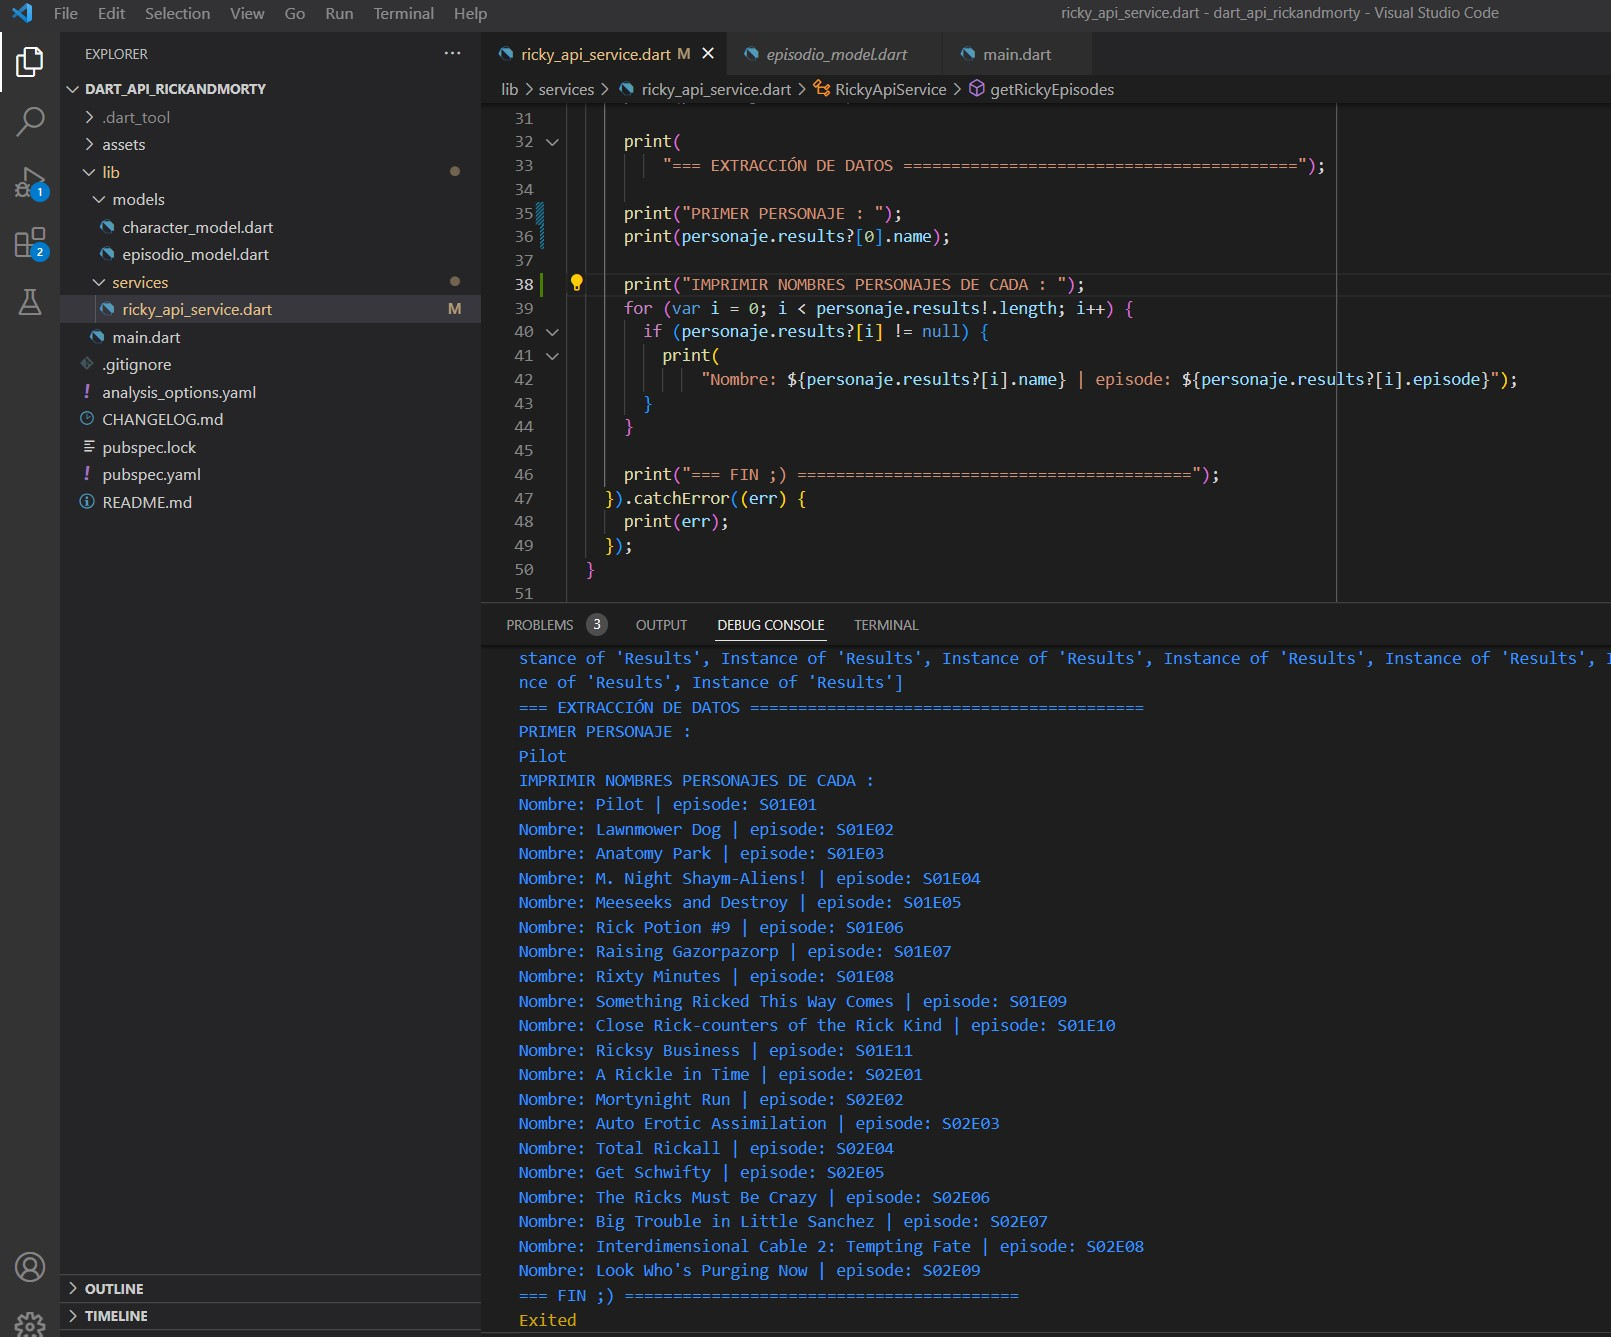
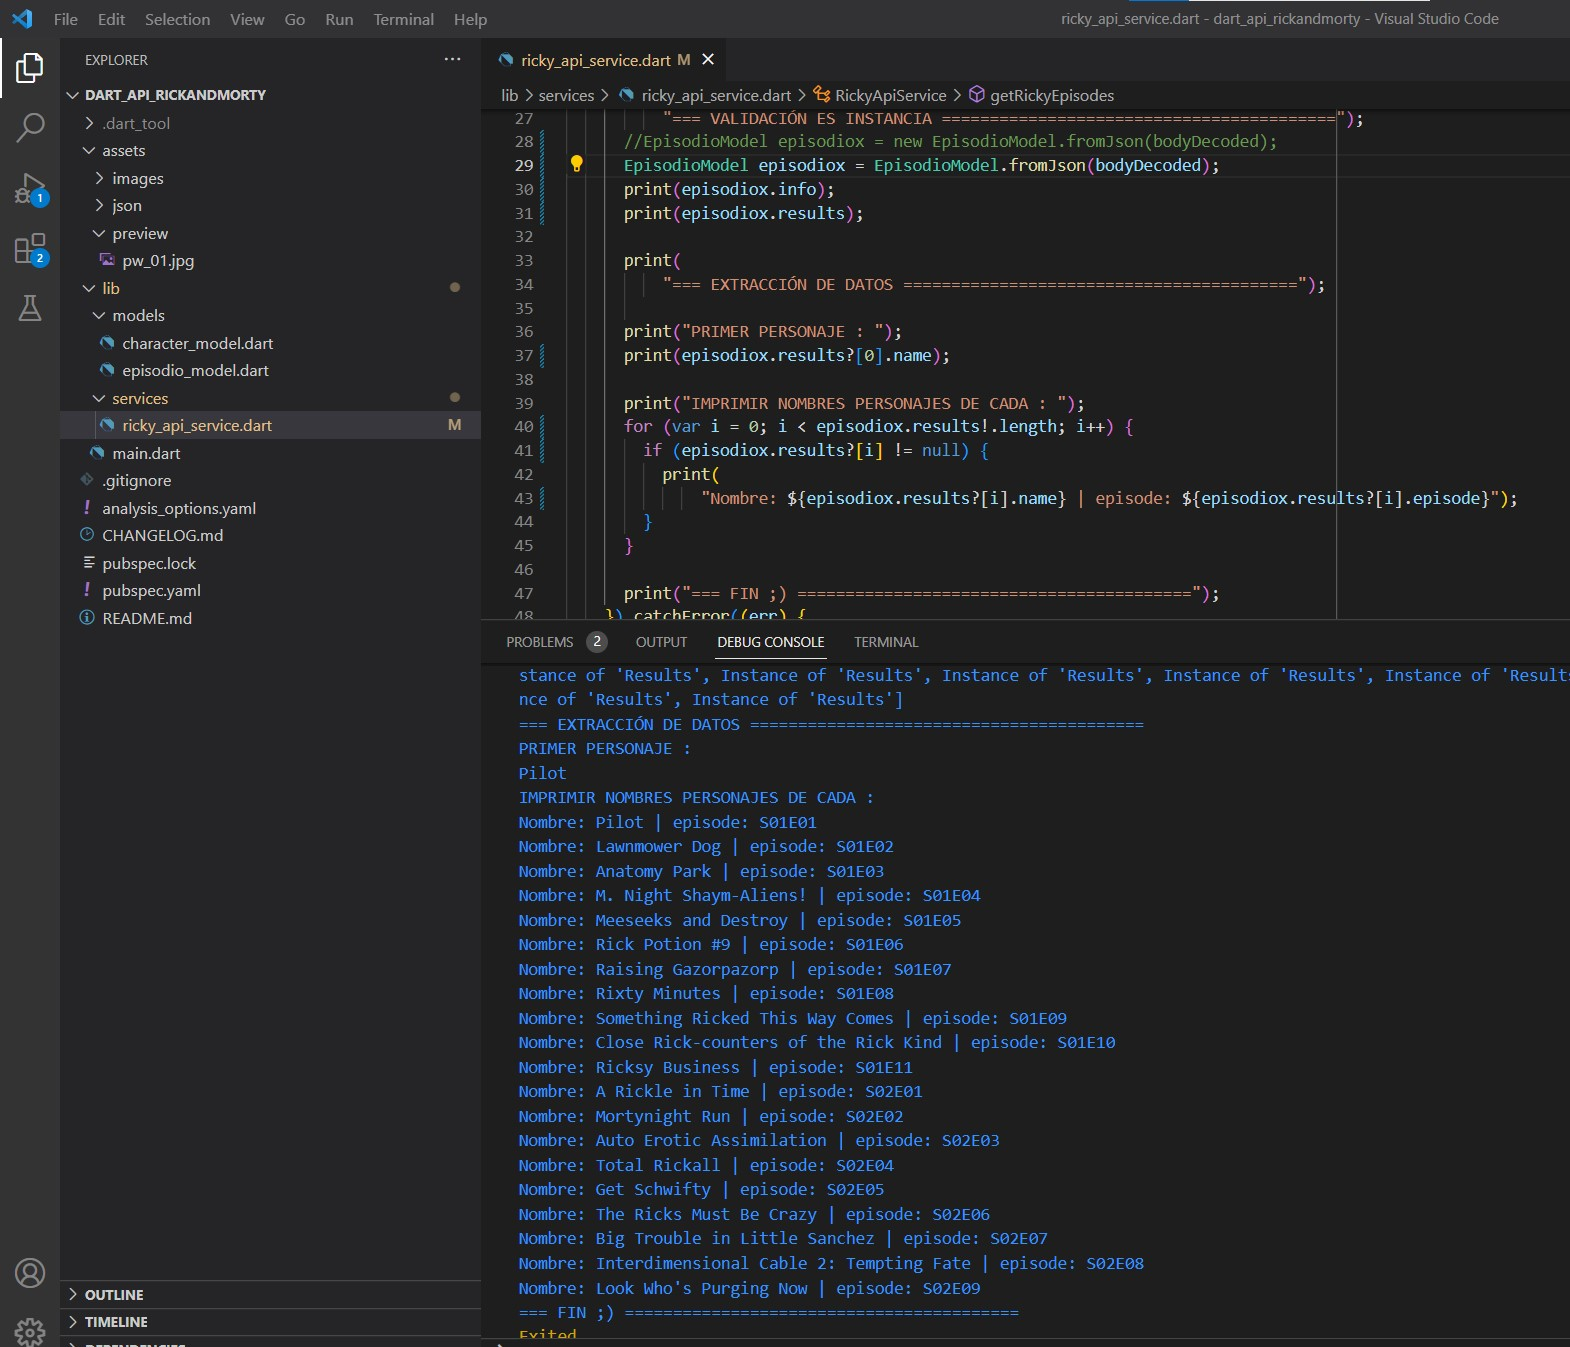
Mini mejora txt + img

diff --git a/lib/services/ricky_api_service.dart b/lib/services/ricky_api_service.dart
@@ -25,21 +25,22 @@ class RickyApiService {
 
       print(
           "=== VALIDACIÓN ES INSTANCIA =========================================");
-      EpisodioModel personaje = new EpisodioModel.fromJson(bodyDecoded);
-      print(personaje.info);
-      print(personaje.results);
+      //EpisodioModel episodiox = new EpisodioModel.fromJson(bodyDecoded);
+      EpisodioModel episodiox = EpisodioModel.fromJson(bodyDecoded);
+      print(episodiox.info);
+      print(episodiox.results);
 
       print(
           "=== EXTRACCIÓN DE DATOS =========================================");
 
       print("PRIMER PERSONAJE : ");
-      print(personaje.results?[0].name);
+      print(episodiox.results?[0].name);
 
       print("IMPRIMIR NOMBRES PERSONAJES DE CADA : ");
-      for (var i = 0; i < personaje.results!.length; i++) {
-        if (personaje.results?[i] != null) {
+      for (var i = 0; i < episodiox.results!.length; i++) {
+        if (episodiox.results?[i] != null) {
           print(
-              "Nombre: ${personaje.results?[i].name} | episode: ${personaje.results?[i].episode}");
+              "Nombre: ${episodiox.results?[i].name} | episode: ${episodiox.results?[i].episode}");
         }
       }
 

diff --git a/README.md b/README.md
@@ -1,6 +1,6 @@
 ## DESCRIPCIÓN
 
-Dart Simple API, para solo obtener resultados de los personajes y generar los modelos correspondientes a partir del enlace especificado + inicio API de https://rickandmortyapi.com/api/character
+Dart Simple API, para solo obtener resultados de los personajes y generar los modelos correspondientes a partir del enlace especificado + inicio API de https://rickandmortyapi.com/api/episode
 
 ## PREVIEW
 
